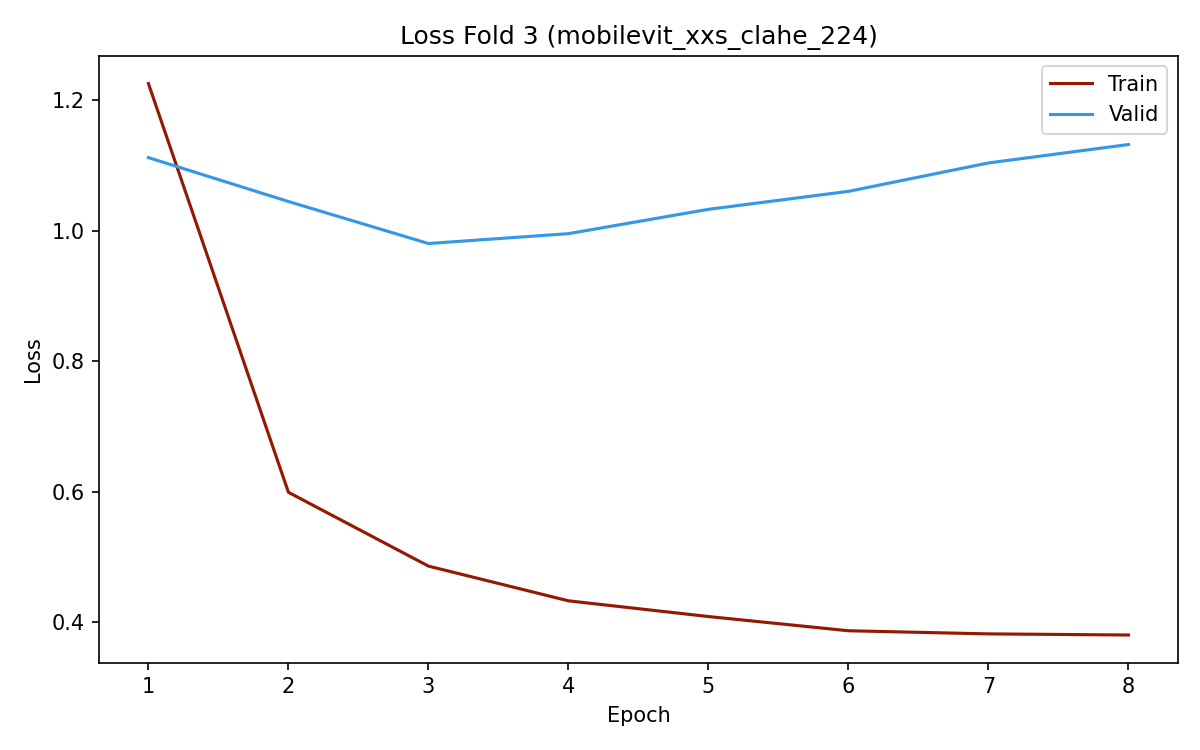
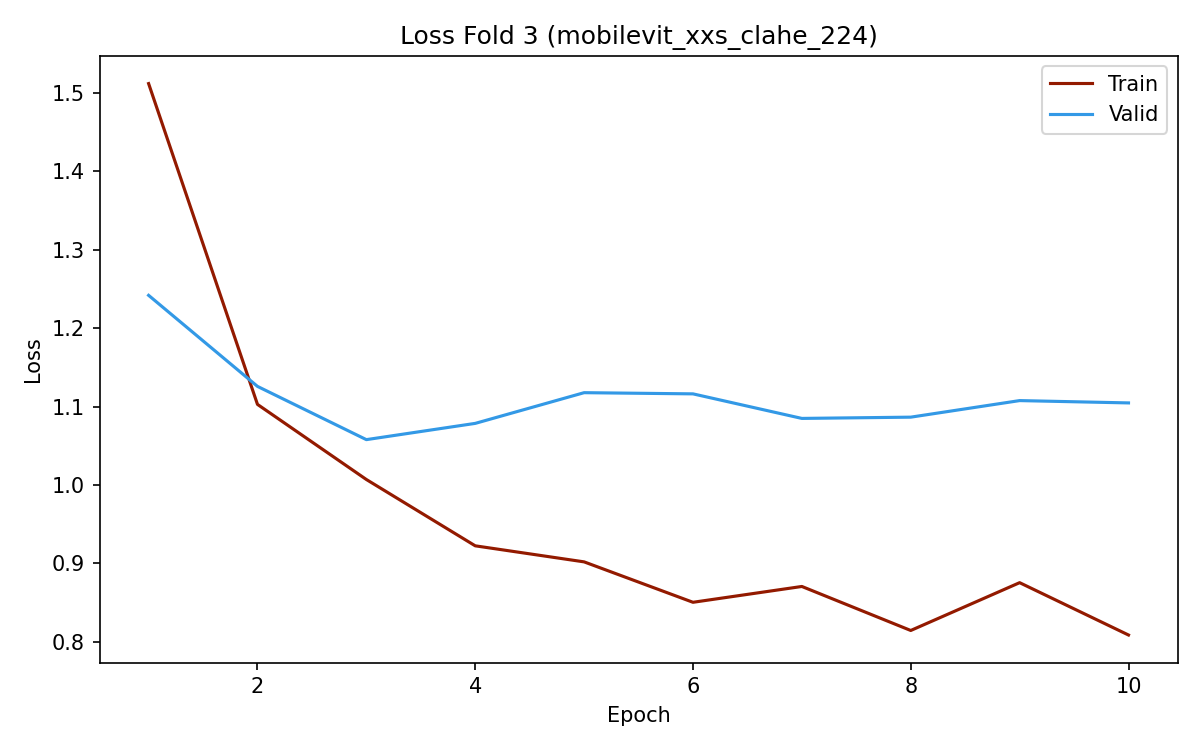
Sync Model 3 code and 5-fold results to v3.0 (anti-overfit Aug+Dropout+Mixup)

diff --git a/train.py b/train.py
@@ -6,6 +6,8 @@ import argparse
 import numpy as np
 import torch
 import torch.nn as nn
+import torch.nn.functional as F
+import torchvision.transforms as T
 import matplotlib
 matplotlib.use("Agg")
 from torch.utils.data import Dataset, DataLoader
@@ -25,6 +27,22 @@ DEFAULT_ARCH = "mobilevit_xxs"
 
 IMAGENET_MEAN = torch.tensor([0.485, 0.456, 0.406]).view(1, 3, 1, 1)
 IMAGENET_STD = torch.tensor([0.229, 0.224, 0.225]).view(1, 3, 1, 1)
+
+AUG_TF = T.Compose([
+    T.RandomHorizontalFlip(p=0.5),
+    T.RandomVerticalFlip(p=0.3),
+    T.RandomAffine(degrees=15, translate=(0.05, 0.05), scale=(0.9, 1.1)),
+    T.ColorJitter(brightness=0.1, contrast=0.1),
+])
+
+
+def mixup_batch(x, y, num_classes=6, alpha=0.2):
+    lam = np.random.beta(alpha, alpha) if alpha > 0 else 1.0
+    idx = torch.randperm(x.size(0), device=x.device)
+    mixed_x = lam * x + (1 - lam) * x[idx]
+    y_onehot = F.one_hot(y, num_classes).float()
+    mixed_y = lam * y_onehot + (1 - lam) * y_onehot[idx]
+    return mixed_x, mixed_y
 
 
 class DatasetCache(Dataset):
@@ -84,7 +102,7 @@ def main():
         elif args.arch == "cnn2":
             args.epoch = 20
         else:
-            args.epoch = 8
+            args.epoch = 10
     if args.lr is None:
         args.lr = 1e-3 if is_cnn else 1e-4
 
@@ -136,10 +154,14 @@ def main():
             tloss = 0.0
             for src, trg in tqdm(train_loader, desc=f"Epoch {ep+1}/{args.epoch}", leave=False):
                 src, trg = src.to(device), trg.to(device)
-                if not is_cnn:
-                    src = (src - mean_t) / std_t
                 optimizer.zero_grad()
-                loss = criterion(model(src), trg)
+                if not is_cnn:
+                    src = (AUG_TF(src) - mean_t) / std_t
+                    mx, my = mixup_batch(src, trg, len(CLASSES), alpha=0.2)
+                    log_p = F.log_softmax(model(mx), dim=1)
+                    loss = -(my * weights.unsqueeze(0) * log_p).sum(dim=1).mean()
+                else:
+                    loss = criterion(model(src), trg)
                 loss.backward()
                 optimizer.step()
                 tloss += loss.item()

diff --git a/Models/Model3.py b/Models/Model3.py
@@ -6,13 +6,15 @@ class Model3Classifier(nn.Module):
     2. `convenxtv2`             -> Modern Pure CNN (input 160 atau 224)
     3. `deit_tiny_patch16_224`  -> Pure Vision Transformer (input 224)
     """
-    def __init__(self, arch="mobilevit_xxs", num_classes=6, pretrained=True, freeze_early=True):
+    def __init__(self, arch="mobilevit_xxs", num_classes=6, pretrained=True, freeze_early=False, drop_rate=0.2, drop_path_rate=0.1):
         super(Model3Classifier, self).__init__()
         self.arch = arch
         self.model = timm.create_model(
             arch,
             num_classes=num_classes,
             pretrained=pretrained,
+            drop_rate=drop_rate,
+            drop_path_rate=drop_path_rate,
         )
 
         if freeze_early:
